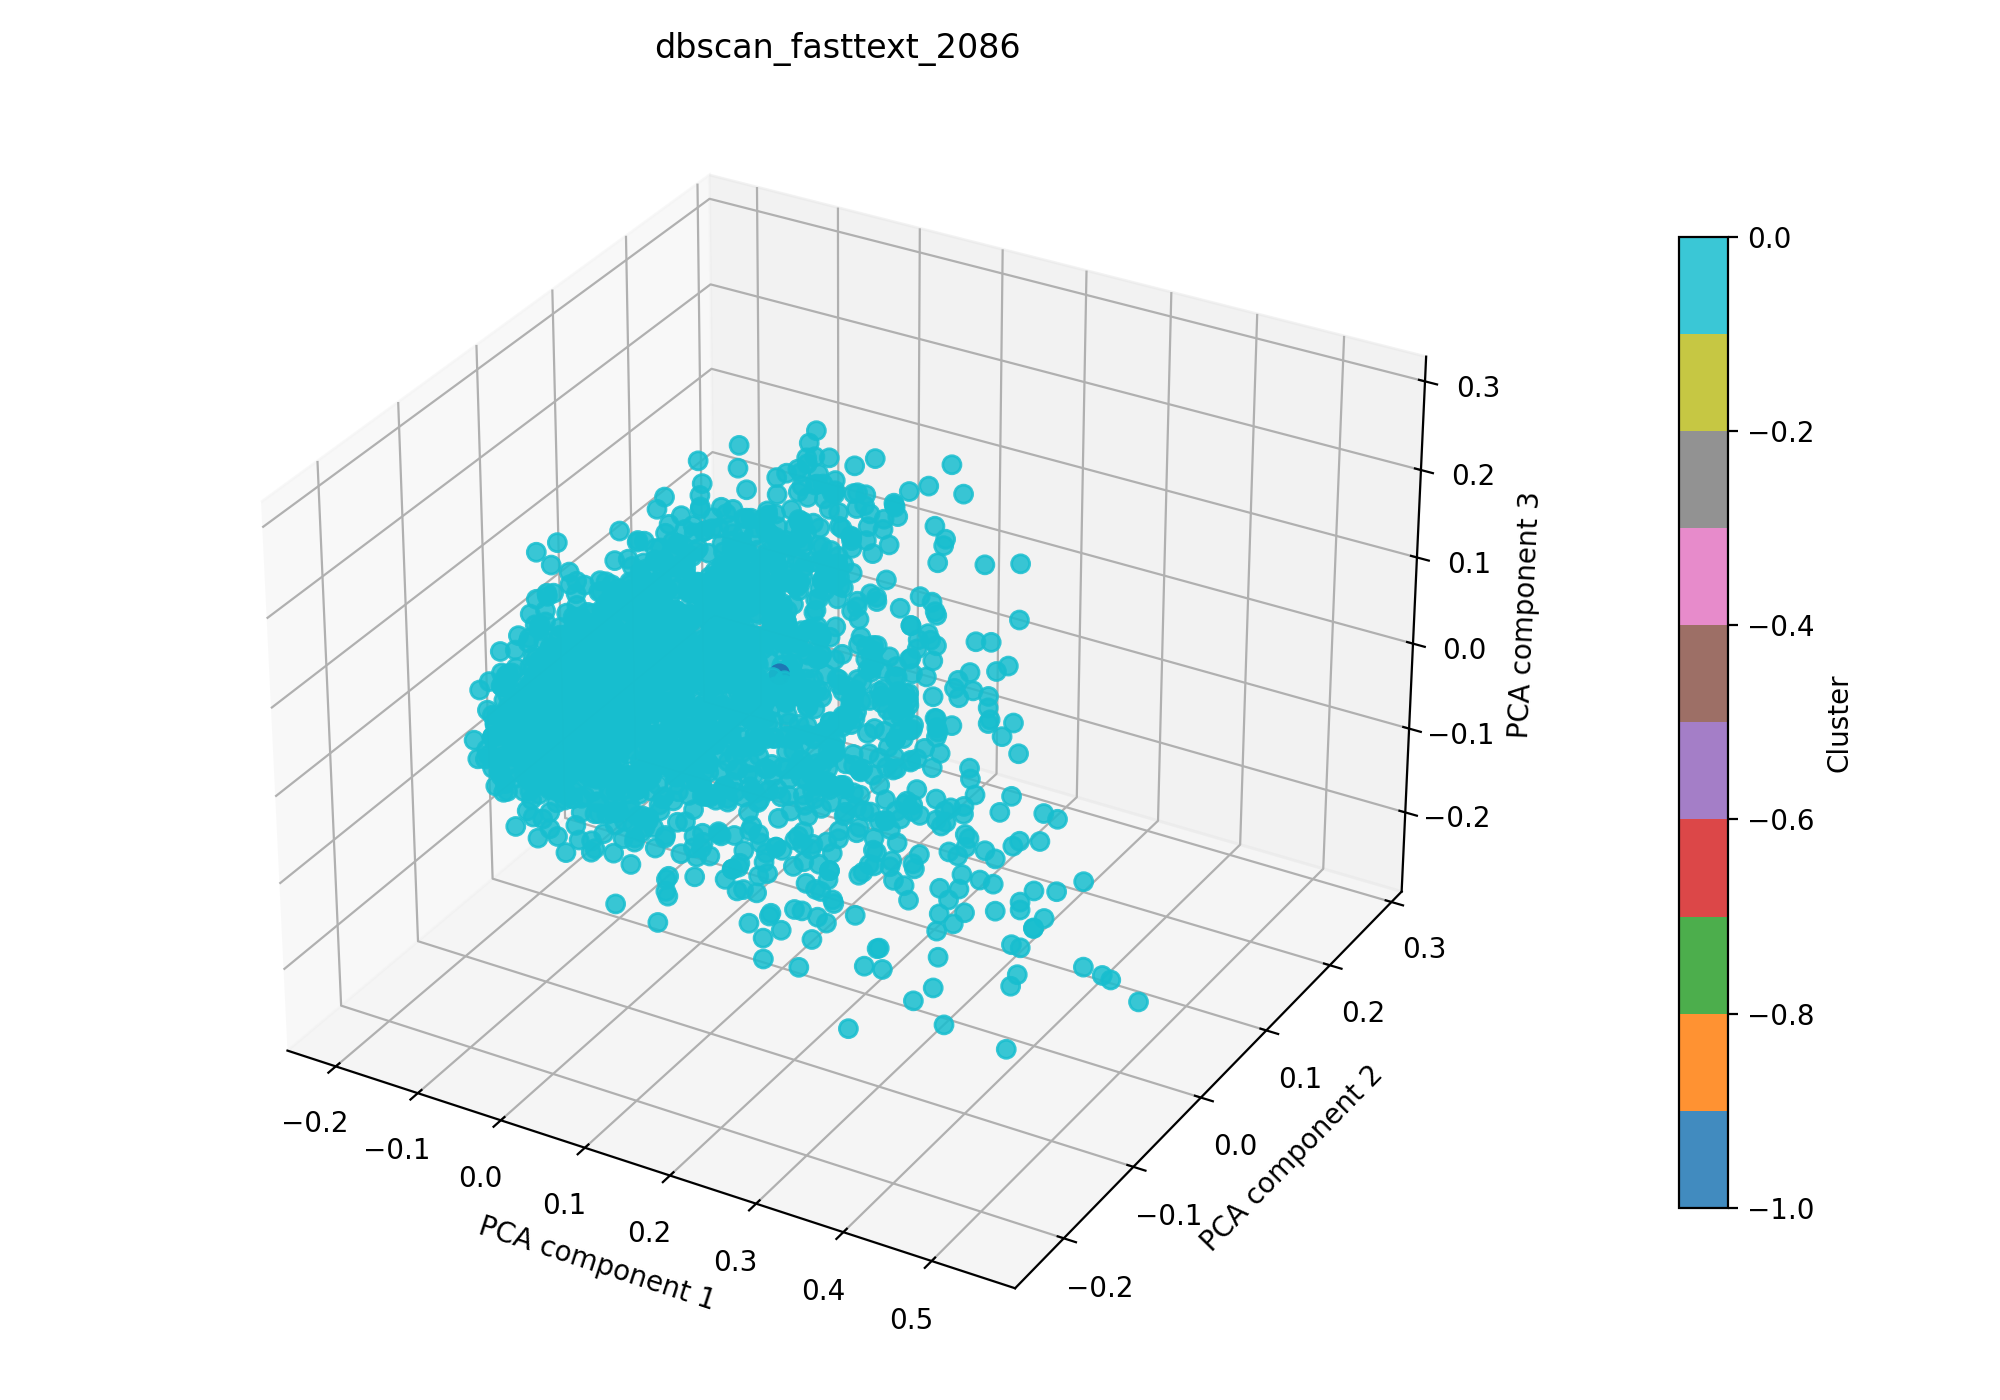
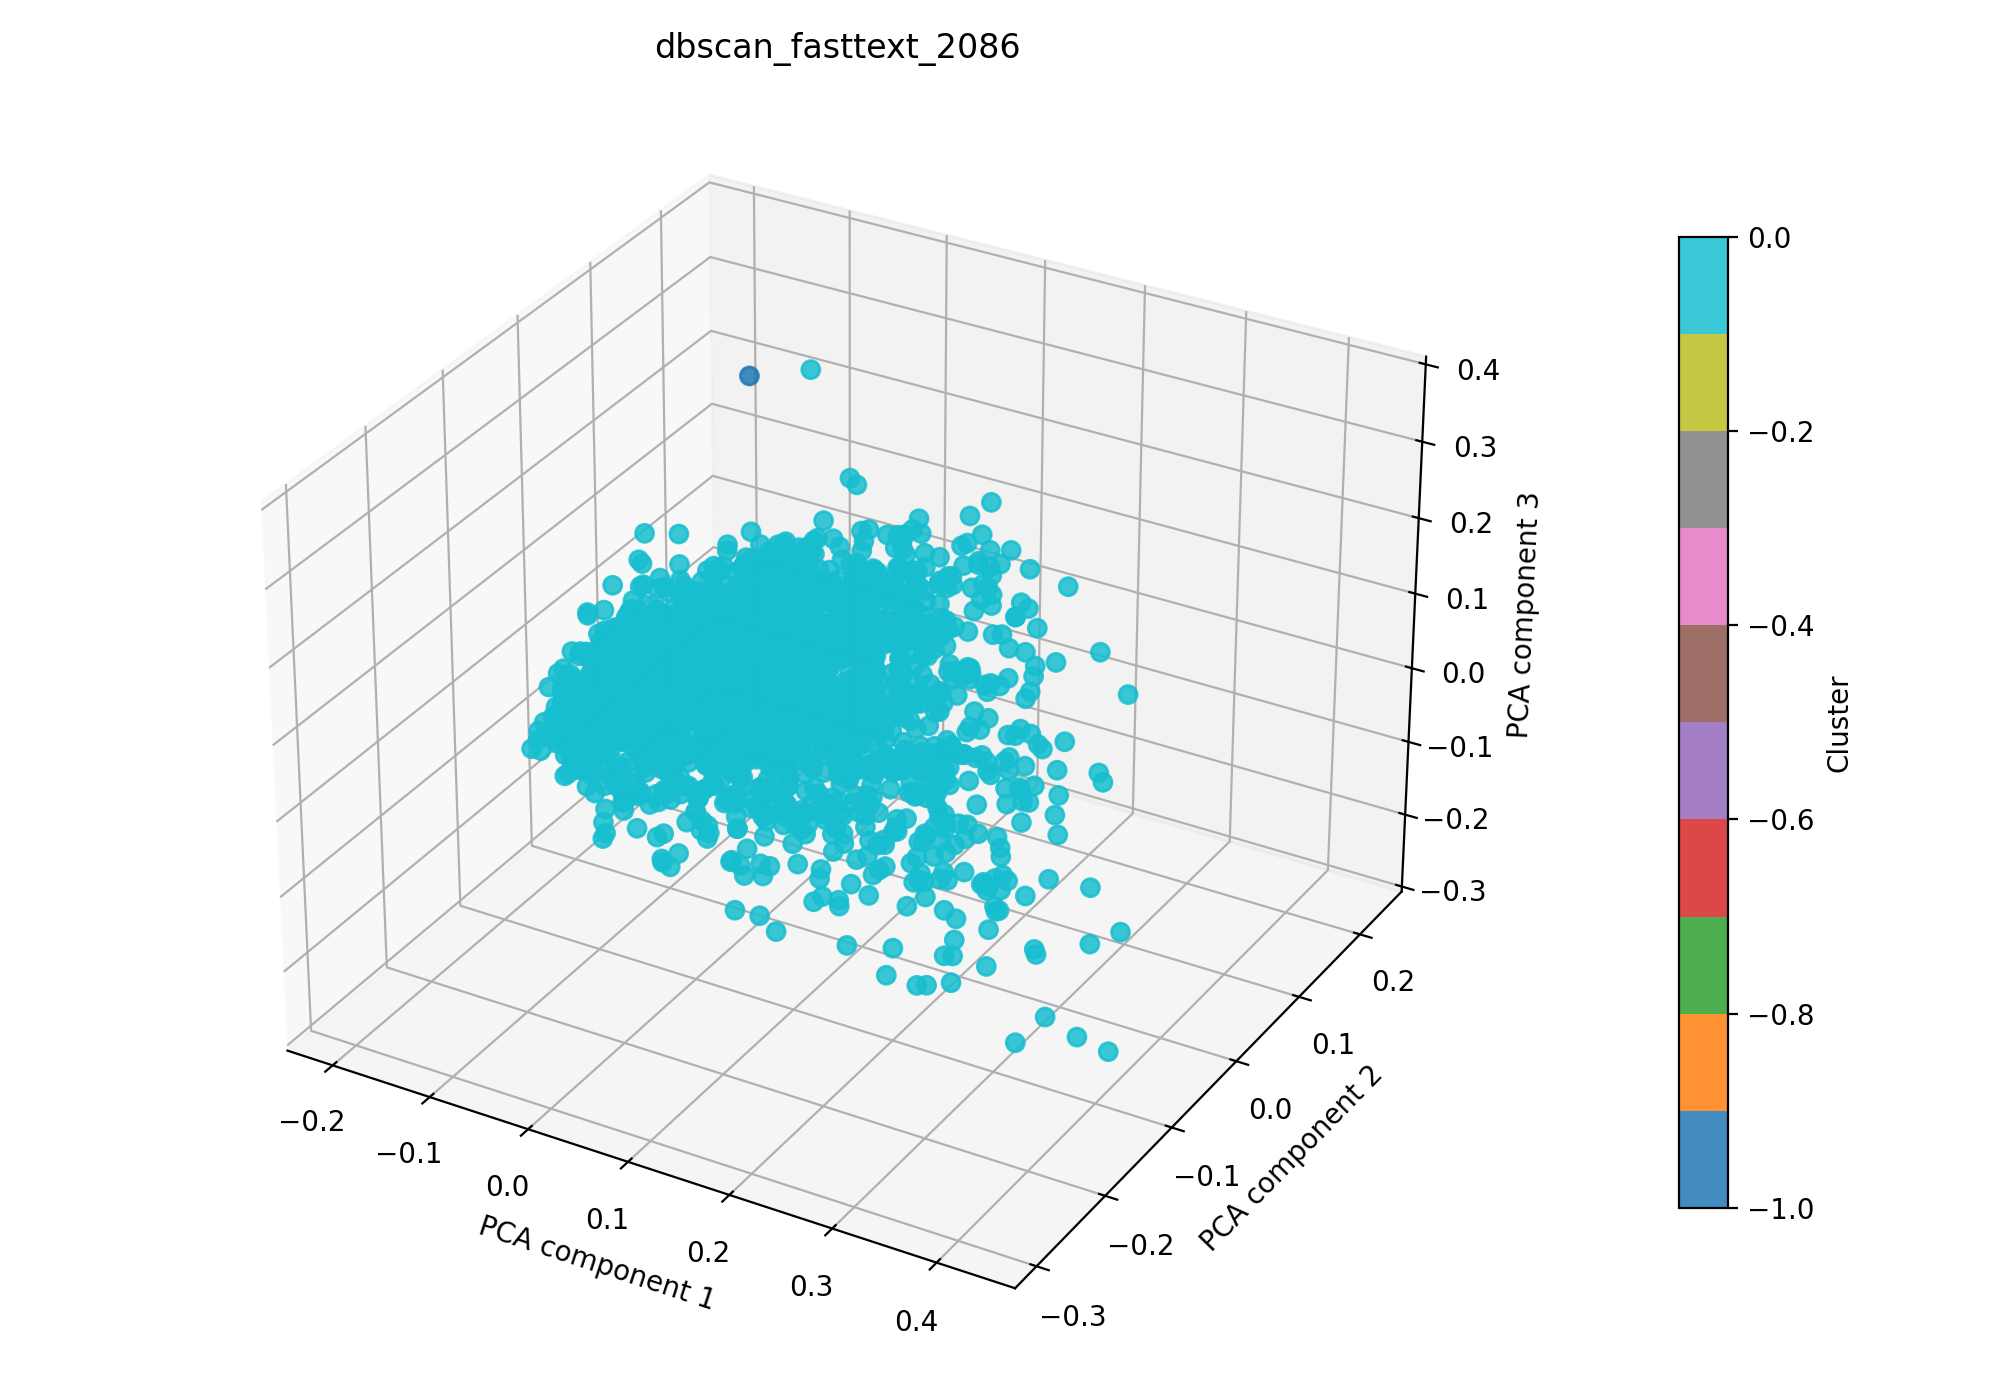
refactor: replace dbscan + fasttext pipeline with generic one, add run results

diff --git a/experiments/dbscan_fasttext/dbscan_fasttext.py b/experiments/dbscan_fasttext/dbscan_fasttext.py
@@ -1,7 +1,7 @@
 from __future__ import annotations
 
 import argparse
-from dataclasses import asdict, dataclass
+from dataclasses import asdict
 import json
 import sys
 from pathlib import Path
@@ -15,73 +15,50 @@ if str(PROJECT_ROOT) not in sys.path:
 if str(SRC_PATH) not in sys.path:
     sys.path.insert(0, str(SRC_PATH))
 
-from interpretation.tfidf_interpreter import TfidfInterpreterConfig
-from src.pipelines.pipeline import PipelineResult, MultiRunPipelineResult, ExperimentPipeline
-from src.clustering.dbscan import DBSCANConfig
-from config_reader.input_config_reader import InputConfig
-from config_reader.output_config_reader import OutputsConfig
-from config_reader.config_reader_new import ConfigReaderBuilder
-from src.pipelines.dbscan_fasttext import DBSCANFasttextPipeline
+from src.pipelines.pipeline import PipelineResult, MultiRunPipelineResult
+from config_reader.config_reader_new import CombinedConfig, ConfigReaderBuilder
 from src.experiments.plot_helper import PlotHelper
 from src.experiments.base import BaseExperiment
 from app_types.document import Document
 
-@dataclass(slots=True)
-class ParsedExperimentConfig:
-    experiment_name: str
-    input: InputConfig
-    dbscan: DBSCANConfig
-    interpretation: TfidfInterpreterConfig
-    outputs: OutputsConfig
 
-
-class DBSCANExperiment(BaseExperiment[ParsedExperimentConfig]):
+class DBSCANExperiment(BaseExperiment):
     """Encapsulates the DBSCAN + Fasttext experiment logic."""
 
     def __init__(self, config_path: str | Path) -> None:
         self.config_path = Path(config_path) if isinstance(config_path, str) else config_path
-        self.experiment_config: ParsedExperimentConfig | None = None
+        self.experiment_config: CombinedConfig | None = None
         
 
     def load_config(self) -> None:
         config_reader = (
             ConfigReaderBuilder()
             .add_input()
+            .add_fasttext()
             .add_dbscan()
             .add_interpretation()
             .add_outputs()
             .build()
         )
-        parsed = config_reader.read(self.config_path)
+        self.experiment_config = config_reader.read(self.config_path)
 
-        if parsed.experiment_name is None:
+        if self.experiment_config.experiment_name is None:
             raise ValueError("Missing required config: experiment_name")
-        if parsed.input is None:
+        if self.experiment_config.input is None:
             raise ValueError("Missing required config: input")
-        if parsed.dbscan is None:
+        if self.experiment_config.fasttext is None:
+            raise ValueError("Missing required config: fasttext")
+        if self.experiment_config.dbscan is None:
             raise ValueError("Missing required config: dbscan")
-        if parsed.interpretation is None:
+        if self.experiment_config.interpretation is None:
             raise ValueError("Missing required config: interpretation")
-        if parsed.outputs is None:
+        if self.experiment_config.outputs is None:
             raise ValueError("Missing required config: outputs")
-
-        self.experiment_config = ParsedExperimentConfig(
-            experiment_name=parsed.experiment_name,
-            input=parsed.input,
-            dbscan=parsed.dbscan,
-            interpretation=parsed.interpretation,
-            outputs=parsed.outputs,
-        )
-
-    def build_pipeline(self) -> ExperimentPipeline:
-        assert self.experiment_config is not None
-        return DBSCANFasttextPipeline(
-            dbscan_config=self.experiment_config.dbscan,
-            interpretation_config=self.experiment_config.interpretation,
-        )
 
     def save_results(self, documents: list[Document], result: PipelineResult | MultiRunPipelineResult, elapsed_seconds: float) -> None:
         assert self.experiment_config is not None
+        assert self.experiment_config.outputs is not None
+        assert self.experiment_config.experiment_name is not None
 
         if isinstance(result, MultiRunPipelineResult):
             pipeline_result = result.best_run

diff --git a/experiments/dbscan_fasttext/results_2086/dbscan_fasttext_2086.md b/experiments/dbscan_fasttext/results_2086/dbscan_fasttext_2086.md
@@ -28,6 +28,13 @@ dbscan:
   p:
   n_jobs:
 
+fasttext:
+  model_name: fasttext-wiki-news-subwords-300
+  min_df: 0.001
+  max_df: 0.9
+  n_components: 300
+  extra_stop_words: []
+
 interpretation:
   top_n_terms: 10
 
@@ -63,9 +70,9 @@ Die Metriken werden in `best_dbscan_fasttext_2086_summary.json` gespeichert. Fü
 
 | Metrik | Wert | Einordnung |
 | --- | ---: | --- |
-| Silhouette Score | 0.892043948173523 | |
-| Davies–Bouldin Index | 0.3388814357842144 | |
-| Calinski–Harabasz Index | 16.66710516056775 | |
+| Silhouette Score | 0.7252406477928162 | |
+| Davies–Bouldin Index | 0.3881564533500855 | |
+| Calinski–Harabasz Index | 6.3451739456215845 | |
 
 ### Cluster-Interpretation
 
@@ -73,13 +80,13 @@ Die folgende Tabelle zeigt die wichtigsten Terme je Cluster aus der aktuellen In
 
 | Cluster | Top-Wörter |
 | --- | --- |
-| -1 | 006, 007, 001, 005, 002, 0003, 000, 00, 0001, 003 |
-| 0 | segmentation, raman, photoacoustic, perfusion, brain, fusion, lesions, 3d, optoacoustic, nir |
+| -1 | infrared, biomedical, imaging, 006, 005, 0003, 000, 001, 007, 002 |
+| 0 | imaging, tissue, based, optical, method, clinical, analysis, high, classification, skin |
 
 ## Evaluation
 Metriken sehr gut, Ergebnis nicht nutzbar.
 
 "cluster_sizes": {
-  "-1": 2,
-  "0": 2084
+  "-1": 1,
+  "0": 2085
 }